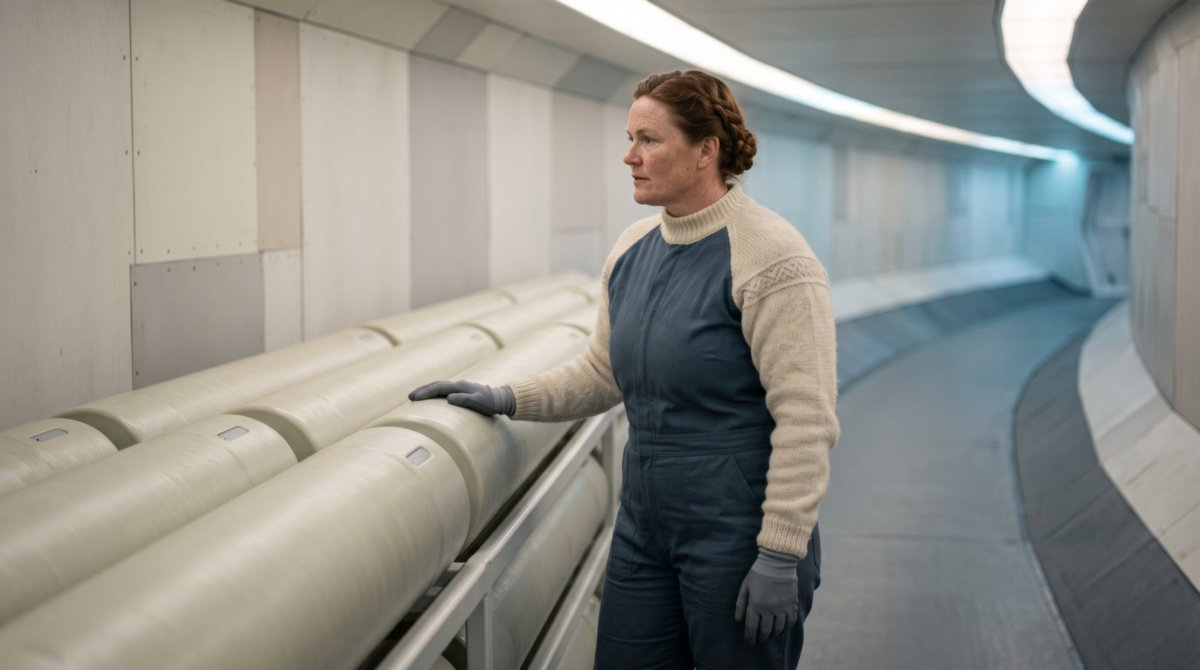
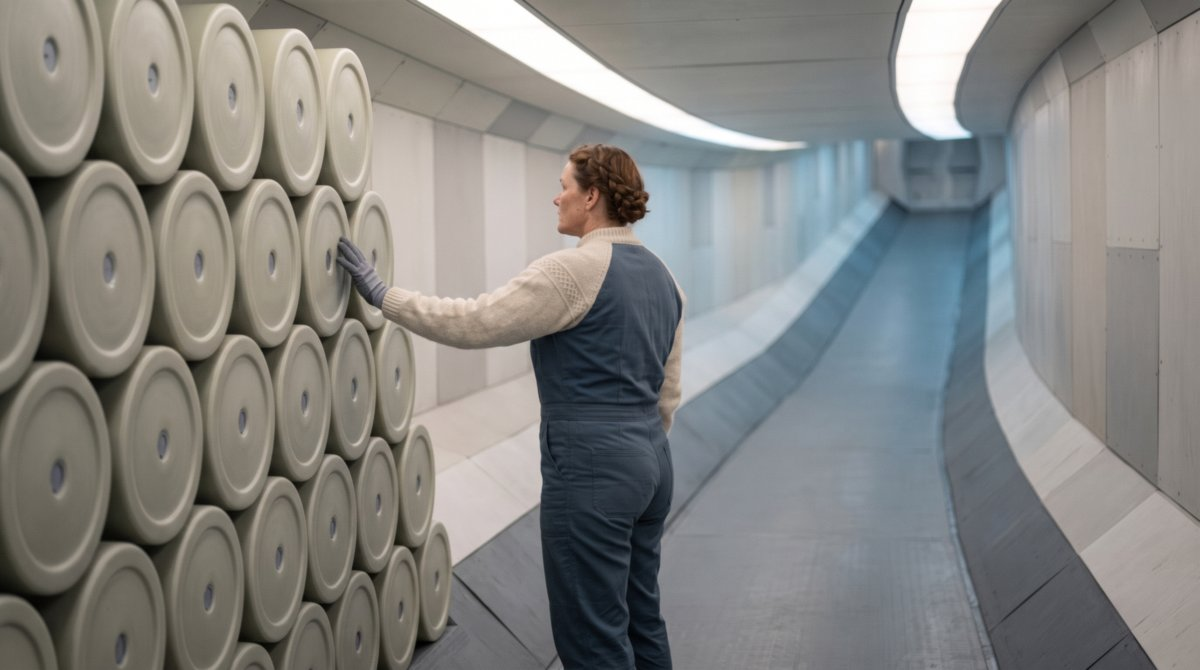
Re-make Tove Strand's portrait so the ring shows
The 14 October frame was a good likeness and a weak place: the bay bent
sideways like a road tunnel instead of rising ahead, and the cylinders lay
lengthwise like lagged pipework. The prompt now looks along the ring with
the floor climbing up the frame and a wall of end-caps under her hand, with
the filed portrait kept as a face reference. Dermot picked variation 4 of
four. Alt text, images.md and CHANGELOG updated.

diff --git a/story-bible/images.md b/story-bible/images.md
@@ -5187,7 +5187,10 @@ filed.
 - **`tove-strand.jpg`** — Human, hauler pilot, Knarr Line, the far-edge ice-prospecting run; *her craft is estimation, and the people at the end of her run would find it indecent.*
   The place is Knarrheim's, from its page: a working bay in one of the habitat rings turning about the old *Nordstjerne* hull, run like a working port town, kept under a three-century standing order to *repair in kind*; the deck curves gently up ahead, which is the hint. The work is the Line's: volatiles and ice readied for a convoy departure. The dress is the Belt's (`civilian-dress.md`): close-fitting coveralls near machinery, nothing loose to catch, and the one heritage element in her own choice, a knitted jumper. Nothing lettered is in frame, no ship's name, no registry number.
   Readings taken for the frame (Fable's, under *Who approves whom*; each his to overrule, and none written to the page): early forties, since a Saltvik season is a first posting and she has flown several far-edge seasons since; a broad, strong working build, fit; a wide weathered face with freckles, grey eyes, red-brown hair in a short plait pinned up out of the way, chosen against Ingrid Halvorsen's cropped grey and the filed coverall portraits; coveralls in a dark blue-grey with a closure that shows no fastening, the century in the cloth; the jumper an undyed cream wool with a quiet knitted band at the yoke, no printed pattern and no flag; gloves on.
-  > Documentary photograph taken inside the world by a 29th-century camera, available light, 16:9 landscape, at work, never posed to camera, nothing that invites the viewer: Tove Strand, a Knarr Line hauler pilot, a woman in her early forties of a broad, strong, fit working build, with a wide weathered freckled face, grey eyes and red-brown hair in a short plait pinned up, at work in a cargo bay of the Belt habitat Knarrheim in the year 2826. She stands side-on to the camera with one gloved hand resting on the smooth sealed end-cap of a long matte pale-composite cylinder lying in a rack of identical cylinders, her face turned away along the rack toward someone out of frame who is calling a count, her attention wholly there. She wears close-fitting dark blue-grey work coveralls with no visible fastening down the front, only a clean seam, nothing loose, and over them an undyed cream knitted wool jumper with a plain high neck and one quiet band of knitted pattern across the shoulders, the wool real and slightly fuzzed with wear, the knit honest and even; close-fitting work gloves of a matte grey material. The bay is clean and kept: a deck of matte grey composite that curves gently upward into the distance ahead of her, the floor of a turning habitat ring, so that the far end of the bay rises; walls of plain pale panels with honest seams and visible, well-made repairs in slightly different shades, old plates patched in kind; the rack of cylinders, each smooth and seamless with one small recessed indicator at its end-cap and nothing else on it; soft even light from long concealed slots in the ceiling, a little cooler toward the far end. Quiet, exact, a working place before a departure. Muted palette: blue-grey, cream wool, pale composite, grey deck. Photographed, not rendered: real wool, real skin with freckles and lines, composite with its seams; a fast lens near wide open with shallow depth of field and slight softness toward the corners, high-ISO grain heavier in the shadows, a touch under-exposed, muted natural colour. Negative: gas cylinders, propane tanks, scuba tanks, valve wheels, pipes with flanges, hoses, hazard stripes, warehouse shelving, pallets, forklift, cardboard boxes, plastic crates, hard cases, clipboard, tablet, laptop, screens, monitors, displays, consoles, dials, gauges, meters, toggles, keyboards, holograms, headset, visible lamp or bulb, exposed cables, grime, rust, oil stains, peeling paint, debris; Viking helmet, horned helmet, braids with beads, fur, furs, cloak, leather armour, runes, Norse costume, Fair Isle sweater with reindeer or snowflakes, printed pattern, flag, embroidered emblem; space suit, helmet, bodysuit, science-fiction costume, glowing trim, light strips; twentieth-century business suit, necktie, lapelled jacket; readable text, lettering, numerals, labels, signage or written characters of any script anywhere in frame; weapons; flat studio backdrop, gradient background, glamour lighting, beauty lighting, smiling to camera, posed to camera. Render negatives: 3D render, CGI, octane render, video-game render, animated film still, concept art, airbrushed, over-smooth skin, waxy skin, plastic sheen. Landscape orientation.
+  References: `story-bible/reference-art/tove-strand-face-2026-10-19.jpg`
+  > Documentary photograph taken inside the world by a 29th-century camera, available light, 16:9 landscape, at work, never posed to camera, nothing that invites the viewer: Tove Strand, a Knarr Line hauler pilot, a woman in her early forties of a broad, strong, fit working build, with a wide weathered freckled face, grey eyes and red-brown hair in a short plait pinned up, at work in a cargo bay of the Belt habitat Knarrheim in the year 2826. The camera stands on the deck and looks straight along the length of the bay, which runs around the rim of a turning habitat ring: the floor runs straight ahead, never bending left or right, and climbs steadily and unmistakably upward into the distance, so that the far end of the bay is seen tilted up above eye level, the deck rising up the frame like the inside of a great wheel, the two side walls running parallel and climbing with it, the long light slots in the ceiling following the same upward curve until they bend up out of the top of the frame. She stands in the middle distance, side-on to the camera, beside a tall rack built into the left-hand wall, in which long matte pale-composite cylinders lie stacked side by side with their axes running into the wall, so that what faces the camera is a honeycomb wall of round flat end-caps, each a smooth sealed disc with one small recessed indicator at its centre and nothing else on it; her gloved hand rests flat on one end-cap at chest height, and her face is turned away along the bay toward someone out of frame further up the slope who is calling a count, her attention wholly there. She wears close-fitting dark blue-grey work coveralls with no visible fastening down the front, only a clean seam, nothing loose, and over them an undyed cream knitted wool jumper with a plain high neck and one quiet band of knitted pattern across the shoulders, the wool real and slightly fuzzed with wear, the knit honest and even; close-fitting work gloves of a matte grey material. The bay is clean and kept: a deck of matte grey composite; walls of plain pale panels with honest seams and visible, well-made repairs in slightly different shades, old plates patched in kind; soft even light from long concealed slots in the ceiling, a little cooler toward the far end. Quiet, exact, a working place before a departure. Muted palette: blue-grey, cream wool, pale composite, grey deck. The reference image shows this same person: keep exactly the face, features, hair, age and build from it, and take nothing else from it, not the clothes, the room, the props or the light. Photographed, not rendered: real wool, real skin with freckles and lines, composite with its seams; a fast lens near wide open with shallow depth of field and slight softness toward the corners, high-ISO grain heavier in the shadows, a touch under-exposed, muted natural colour. Negative: corridor that bends sideways, horizontal curve, curved tunnel, road tunnel, underground passage, banked wall, flat level floor; pipes, pipe runs, insulated pipework, lagged pipes, ducting, cylinders lying lengthwise along the wall, gas cylinders, propane tanks, scuba tanks, valve wheels, pipes with flanges, hoses, hazard stripes, warehouse shelving, pallets, forklift, cardboard boxes, plastic crates, hard cases, clipboard, tablet, laptop, screens, monitors, displays, consoles, dials, gauges, meters, toggles, keyboards, holograms, headset, visible lamp or bulb, exposed cables, grime, rust, oil stains, peeling paint, debris; dungarees, bib overalls, sleeveless coveralls; Viking helmet, horned helmet, braids with beads, fur, furs, cloak, leather armour, runes, Norse costume, Fair Isle sweater with reindeer or snowflakes, printed pattern, flag, embroidered emblem; space suit, helmet, bodysuit, science-fiction costume, glowing trim, light strips; twentieth-century business suit, necktie, lapelled jacket; readable text, lettering, numerals, labels, signage or written characters of any script anywhere in frame; weapons; flat studio backdrop, gradient background, glamour lighting, beauty lighting, smiling to camera, posed to camera. Render negatives: 3D render, CGI, octane render, video-game render, animated film still, concept art, airbrushed, over-smooth skin, waxy skin, plastic sheen. Landscape orientation.
+  - *(Revised 19 October 2026, Opus, a render fix at Dermot's *"Option B"*: the frame filed on 14 October is a good likeness and a weak place. Its deck bends sideways like a road tunnel rather than rising ahead, so the century hint the entry rests on does not read, and the cylinders lie lengthwise and read as lagged pipework, with the hand on a flank rather than an end-cap. The camera now looks along the ring with the floor climbing up the frame, the rack shows a wall of end-caps, and the filed portrait is a reference for the face alone. The 14 October frame drew the coveralls as a bib over the jumper; the prompt's coveralls-under-jumper stands, and dungarees are negated.)*
+  - *(Filed 19 October 2026, Dermot's pick of four, variation 4: the only one where the floor climbs ahead, with a wall of end-caps under her hand. Variations 1 to 3 kept the sideways bend. All four still drew the coveralls as a bib over the jumper, so the negative did not hold; that is accepted with the frame. Imported at 1,200 px, finish strength 1; the 14 October frame is kept as the face reference.)*
   - **Attention is along the rack**, on the crewmate calling the count; the 28 July guardrail is met by the work, one hand on the cylinder and her face turned away from the camera.
   - **The century is the deck.** A floor that curves up ahead can only be a turning ring, and the cylinders have no stock form once *gas cylinder*, *propane tank* and *valve wheel* are negated and the shape is given as a smooth sealed end-cap with one recessed indicator. The Norse costume the generator will reach for on *Knarr* is negated by name, since the Line's heritage is five languages and an assembly's name, not a helmet.
   - **Desktop step:** `node scripts/image-prompts.js --generate --only tove-strand`. Triage each variation for its century first (a warehouse, a hard case or a tablet fails whatever else it gets right), then for the costume (any horn, fur, rune or bead fails), then for the face against the readings above; file through `import-image.ps1 -MaxEdge 1200`, add `image:` and `image_alt` to the page from the filed frame.

diff --git a/CHANGELOG.md b/CHANGELOG.md
@@ -6,6 +6,7 @@ The format loosely follows [Keep a Changelog](https://keepachangelog.com/en/1.1.
 
 ## [Unreleased]
 
+- **Tove Strand's portrait re-made** (`src/images/characters/tove-strand.jpg`, `src/characters/tove-strand.md`, `story-bible/images.md`, 2026-10-19, Dermot's pick). The 14 October frame was a good likeness, but its bay bent sideways like a tunnel and its cylinders read as pipework, so the habitat ring did not show. The prompt now looks along the ring with the floor climbing ahead and a wall of cylinder end-caps, with her face taken from the old frame as a reference. The alt text is updated to match.
 - **Below the Roof S14E02C01 *Sound, Rising*** (`src/seasons/s14/e02/`, `open-questions.md`, 2026-10-19, at Dermot's ask). The survey side opens Season 14's second episode. At the year-end summaries Nakagawa finds that Aravena's voice has been filed for two years under the unit's own class, *sound, rising*, and never under Aravena's name. Egede wants the name written, and Ferrant reads the unit as having filed at its grade. Asked, Aravena says *not today*. Nothing is decided. The POVs are Aravena, Nakagawa and Ferrant.
 - **Below the Roof Season 14 begins: *Nobody Came*** (`src/seasons/s14/e01/s14e01c01.md`, `src/seasons/s14/`, `lib/storyline-threads.js`, `open-questions.md`, 2026-10-19, at Dermot's ask). Season 14 is registered as the thread's third season. In the first chapter the small ones of the Told turn the manners into a game. Carried-It-Sleeping stops it, Went-Round reads it as how manners begin, and on the line Stone-First-Who-Waited weighs the telling the up-people have never heard. The POVs are Carried-It-Sleeping, Went-Round and Stone-First. The smallest one is still unnamed.
 - **No erotic writing in the published work** (`CLAUDE.md`, the 19 October intake, 2026-10-19, Dermot's choice A). One sentence under *Tone*: erotic writing has no place at any rung, and intimacy is written in the house voice, of the senses and never displayed. It is a craft rule, not a moral one, and guards against superficial or crude explicitness.

diff --git a/src/characters/tove-strand.md b/src/characters/tove-strand.md
@@ -8,7 +8,7 @@ status: Active
 tags: [human, knarr-line, belt, sol-system, knarrheim, saltvik, the-tally, civilian]
 description: "A Knarrheim-born Knarr Line pilot who did her Saltvik season, has not been questioned on her piloting since, and now flies the far-edge prospecting run — the heading on which a Line convoy found a moored hull with lights in it two generations ago, and the run the Survey Corps rides when the Tally invite it out."
 image: "tove-strand.jpg"
-image_alt: "Tove Strand in a curving ring-deck cargo bay, a gloved hand resting on a rack of pale sealed cylinders: grey-blue coveralls over a cream knitted jumper, red-brown hair pinned up, looking along the bay away from the camera."
+image_alt: "Tove Strand in a habitat-ring cargo bay whose floor climbs away ahead of her, a gloved hand on one of a wall of round pale cylinder end-caps: blue-grey coveralls over a cream knitted jumper, red-brown hair plaited and pinned up, looking up the bay away from the camera."
 ---
 
 Tove Strand flies ice. That is the whole of her trade and she would not thank anyone for making more of it: a [Knarr Line](/star-rangers/lore/knarr-line/) hauler on the far-edge prospecting allocation, out past the last of the Belt's worked claims and back, a leg long enough that the crew gives the hull a name before the registry does.
